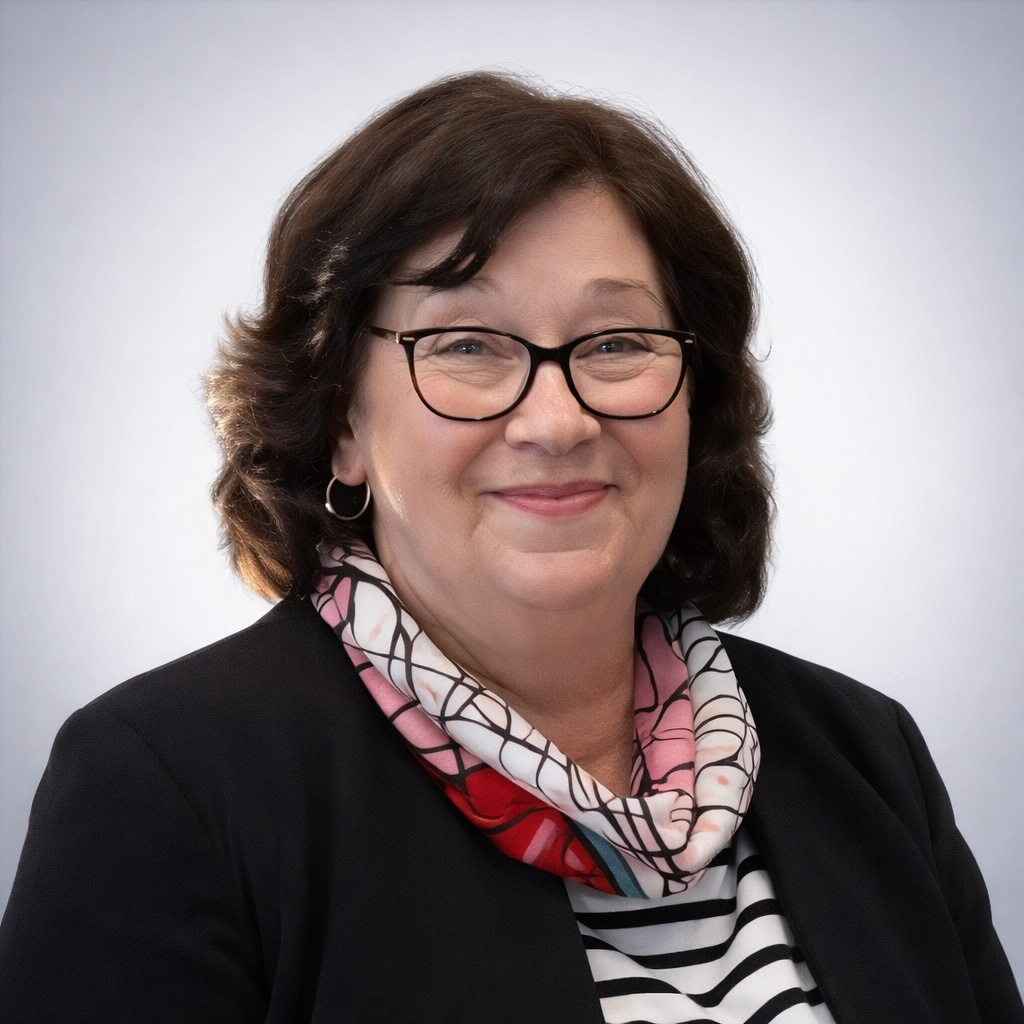
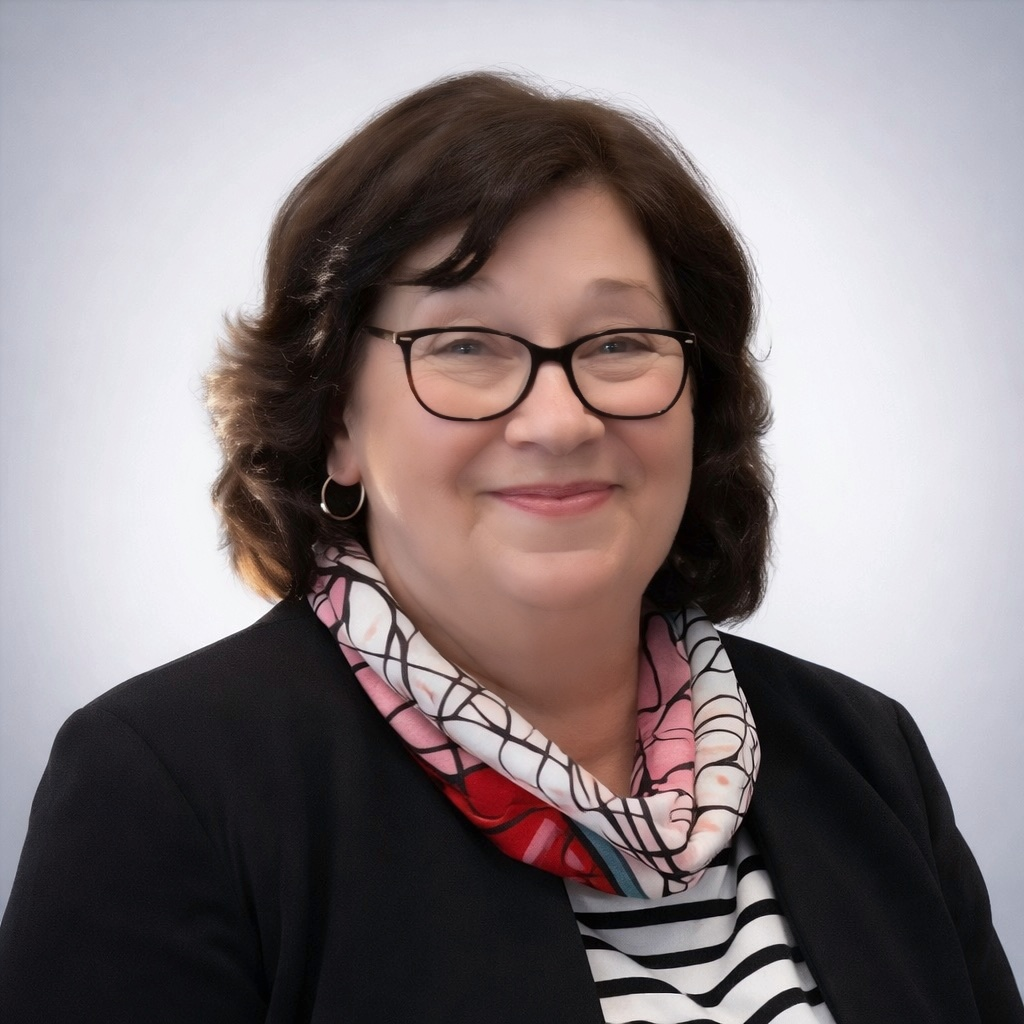
no message

diff --git a/src/css/styles.css b/src/css/styles.css
@@ -15,6 +15,7 @@
     --color-accent: var(--color-tint);
     --color-text: #333333;
     --color-text-light: #666666;
+    --color-text-heavy: #484848;
     --color-background: #ffffff;
     --color-background-alt: #f8f8f8;
     --color-border: #e0e0e0;
@@ -460,13 +461,46 @@ main {
 }
 
 /* ==========================================================================
+   9.1 Hero Section
+   ========================================================================== */
+
+.hero-header {
+    position: relative;
+    padding: var(--spacing-xl) 0;
+    background-image: url('../images/site/bg.jpg');
+    background-size: cover;
+    background-position: center;
+    background-repeat: no-repeat;
+    text-align: center;
+    overflow: hidden;
+    
+}
+
+.hero-header-title {
+    font-size: var(--font-size-xlarge);
+    font-weight: var(--font-weight-bold);
+    line-height: var(--line-height-heading);
+    margin-bottom: var(--spacing-sm);
+    color: var(--color-text-heavy);
+    
+}
+
+.hero-header-subtitle {
+    font-size: var(--font-size-medium);
+    font-weight: var(--font-weight-normal);
+    color: var(--color-text-light);
+    margin-bottom: var(--spacing-lg);
+   
+}
+
+/* ==========================================================================
    9. Hero Section
    ========================================================================== */
 
 .hero {
     position: relative;
     padding: var(--spacing-xl) 0;
-    background-image: url('../images/gallery/painting-1.jpg');
+    background-image: url('../images/site/bg.jpg');
     background-size: cover;
     background-position: center;
     background-repeat: no-repeat;
@@ -482,7 +516,7 @@ main {
     left: 0;
     right: 0;
     bottom: 0;
-    background-color: rgba(0, 0, 0, 0.4);
+ /*    background-color: rgba(0, 0, 0, 0.4); */
     z-index: 0;
 }
 
